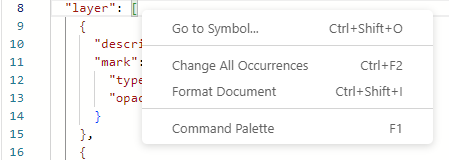
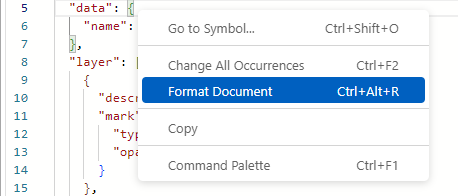
docs: update context menu details following beta feedback

diff --git a/docs/changelog.md b/docs/changelog.md
@@ -82,9 +82,9 @@ As errors do not produce valid JSON, you cannot export your work as a template u
 
 #### Formatting Has Moved
 
-Formatting was previously available via the toolbar - this has now moved to use Monaco's own formatter, available in the context menu, or with the new shortcut of [Ctrl + Shift + I]:
+Formatting was previously available via the toolbar - this has now moved to use Monaco's own formatter, available in the context menu, or with the existing keyboard shortcut of [Ctrl + Alt + R]:
 
-![JSON formatting has moved to use the native Monaco Editor version, available in the context menu or using [Ctrl + Shift + I].](/img/changelog/1.7.0/format-context-menu.png "JSON formatting has moved to use the native Monaco Editor version, available in the context menu or using [Ctrl + Shift + I].")
+![JSON formatting has moved to use the native Monaco Editor version, available in the context menu or using the existing keyboard shortcut of [Ctrl + Alt + R].](/img/changelog/1.7.0/format-context-menu.png "JSON formatting has moved to use the native Monaco Editor version, available in the context menu or using the existing keyboard shortcut of [Ctrl + Alt + R].")
 
 #### 'Escape Hatch' for UI Navigation
 
